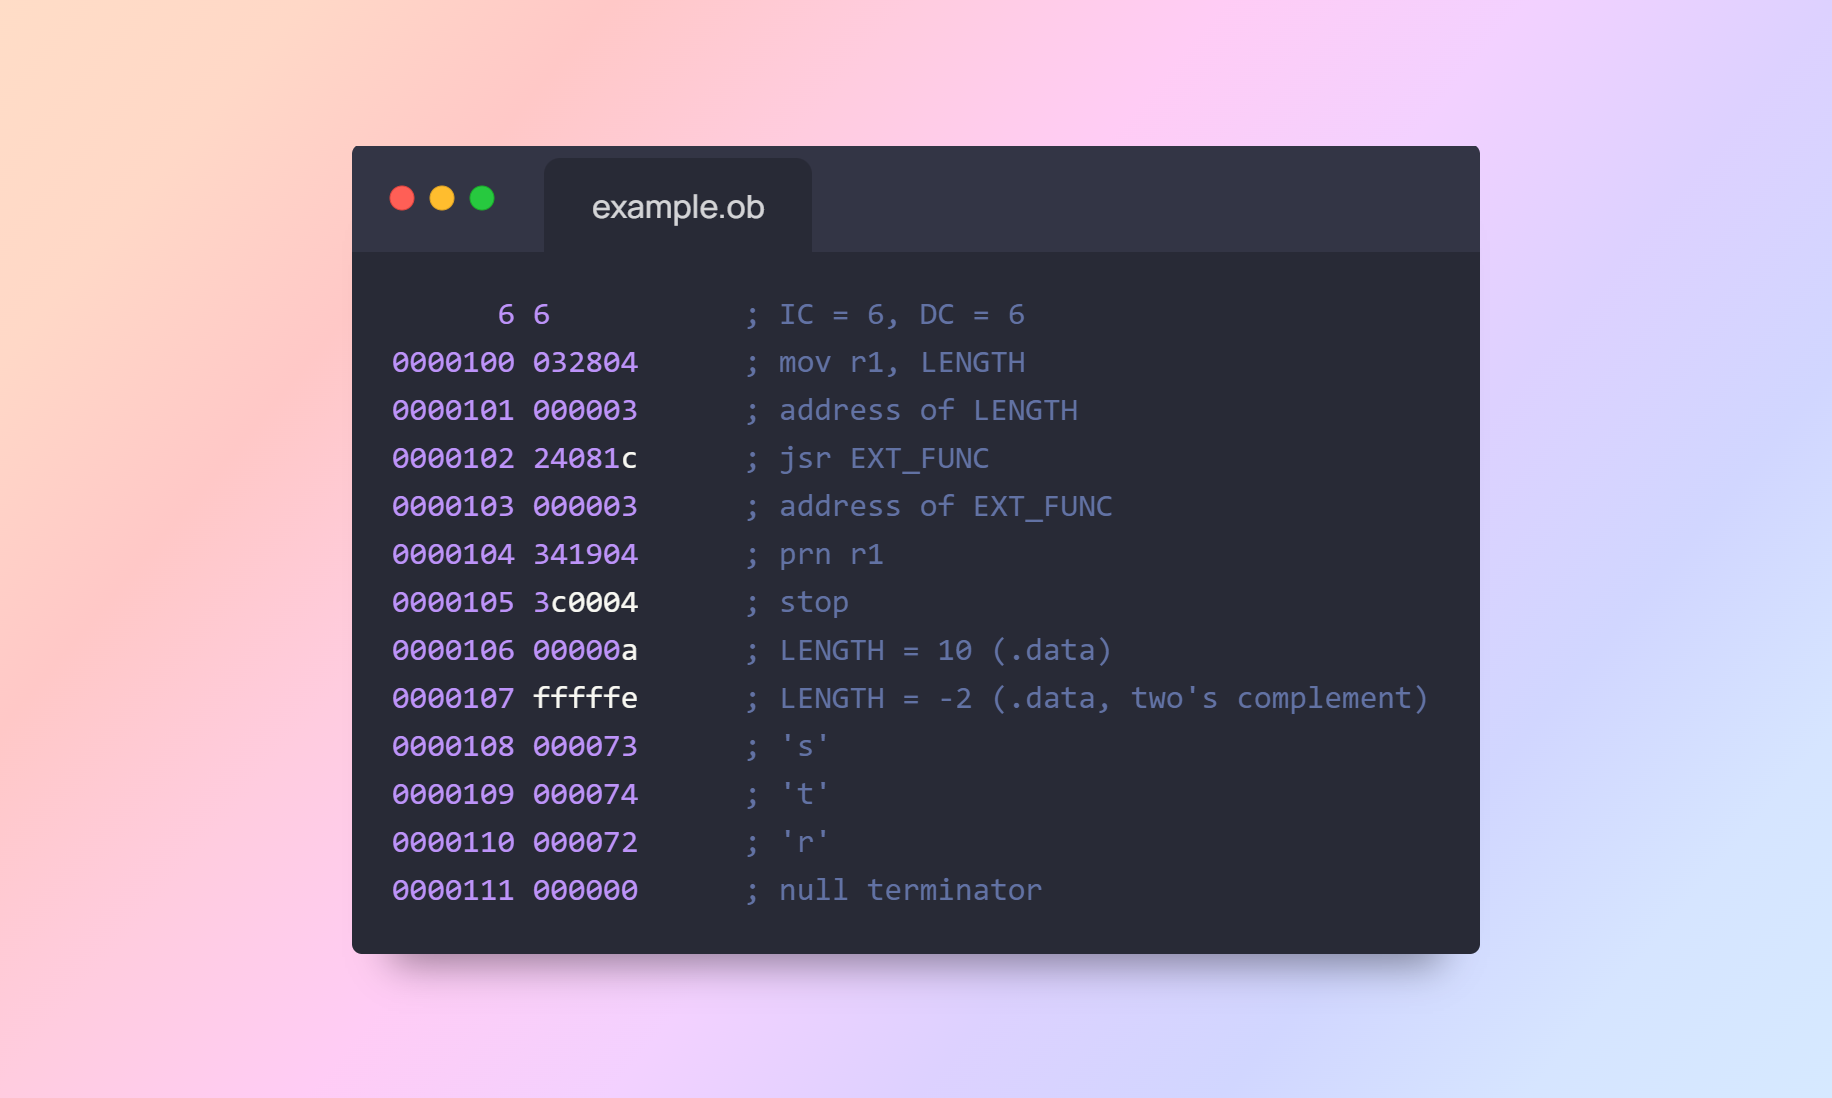
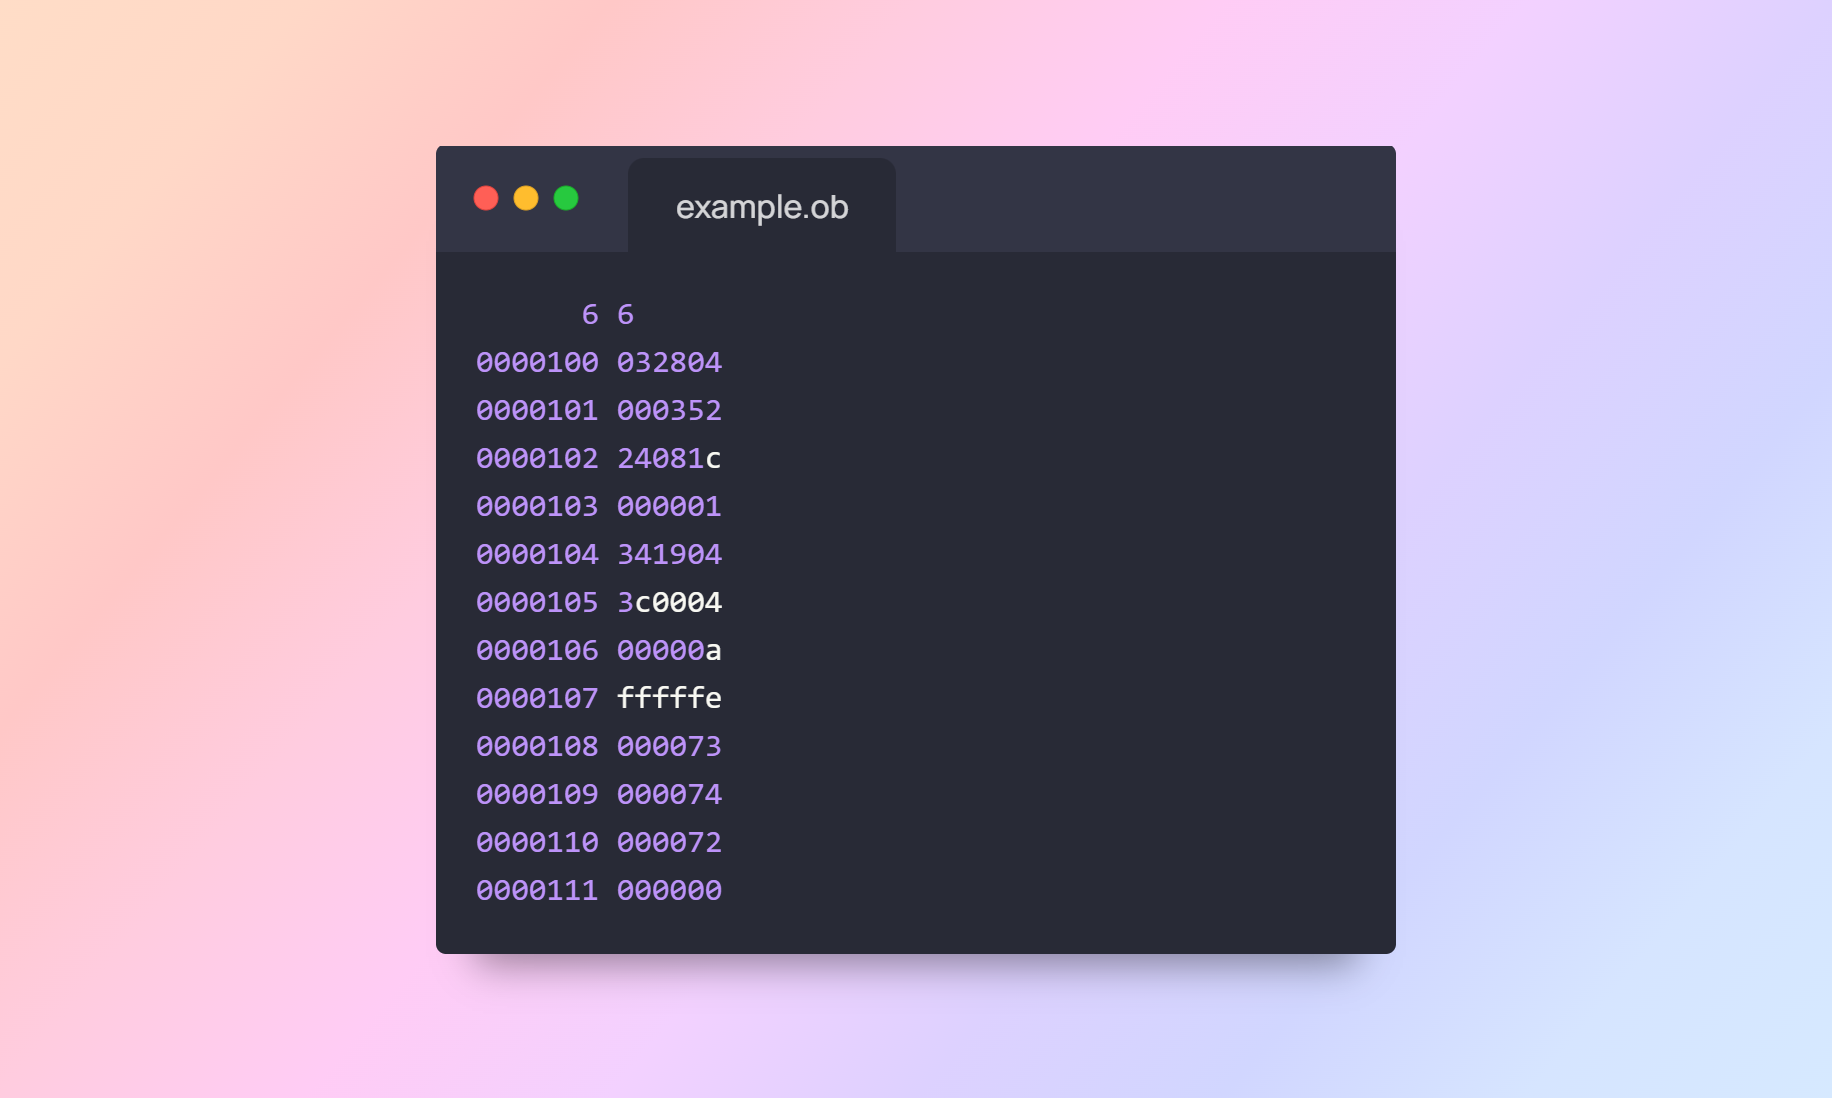
Update README.md

diff --git a/Source_Files/output_builder.c b/Source_Files/output_builder.c
@@ -268,7 +268,7 @@ void fill_addresses_words(FILE *am_file, LabelTable *label_table, VirtualPC *vpc
 
                     else if (label_exists(params[i], label_table))
                     {
-                        Label *label_ptr = get_label_by_name(label_table, params[i] + 1);
+                        Label *label_ptr = get_label_by_name(label_table, params[i]);
                         if (label_ptr != NULL)
                         {
                             label_address = label_ptr->address;

diff --git a/Readme.md b/Readme.md
@@ -10,7 +10,7 @@ The project is organized into the following directories and files:
 Assembler-C-Labratory/
 ├── Header_Files/         # Contains header files for modular code structure
 ├── Images/               # Stores diagrams and relevant images
-├── Inputs/               # Sample input assembly files
+├── Tests/                # Sample input assembly files
 ├── LICENSE               # License information
 ├── Makefile              # Build automation for compiling the assembler
 ├── README.md             # Documentation of the project
@@ -54,6 +54,23 @@ This will compile all source files and generate an executable `assembler`.
 ├── .ent (entry labels)
 └── .ext (external references)
 ```
+
+### Sample Input/Output Flow
+
+#### Input Files
+
+| `.as` (Original) | `.am` (Preprocessed) |
+|------------------|----------------------|
+| ![example.as](Images/example.as.png) | ![example.am](Images/example.am.png) |
+
+---
+
+#### Output Files
+
+| `.ob` (Object Code) | `.ent` / `.ext` |
+|---------------------|------------------|
+| ![example.ob](Images/example.ob.png) | ![example.ent](Images/example.ent.png)<br>![example.ext](Images/example.ext.png) |
+
 
 ### Running the Assembler
 After compiling, the assembler can be executed with:
